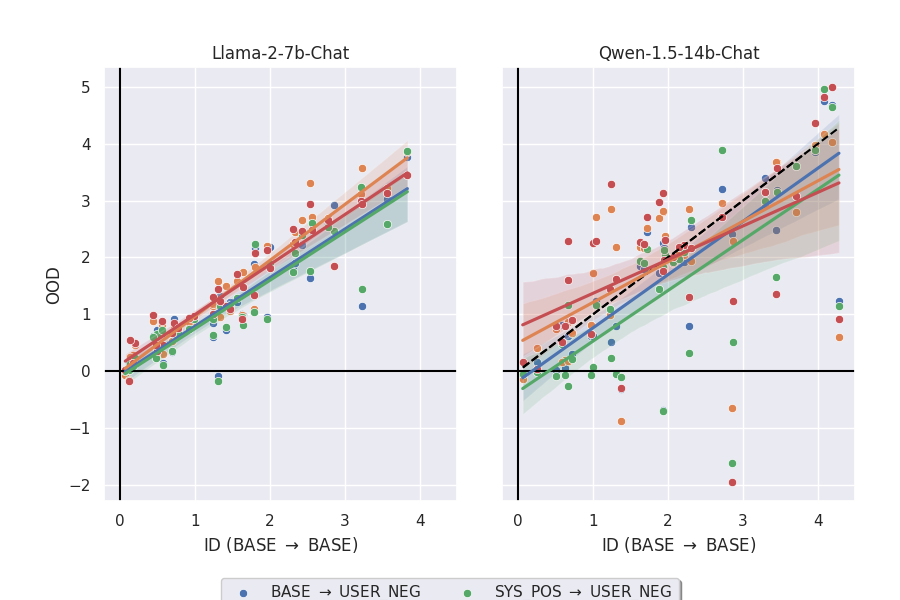
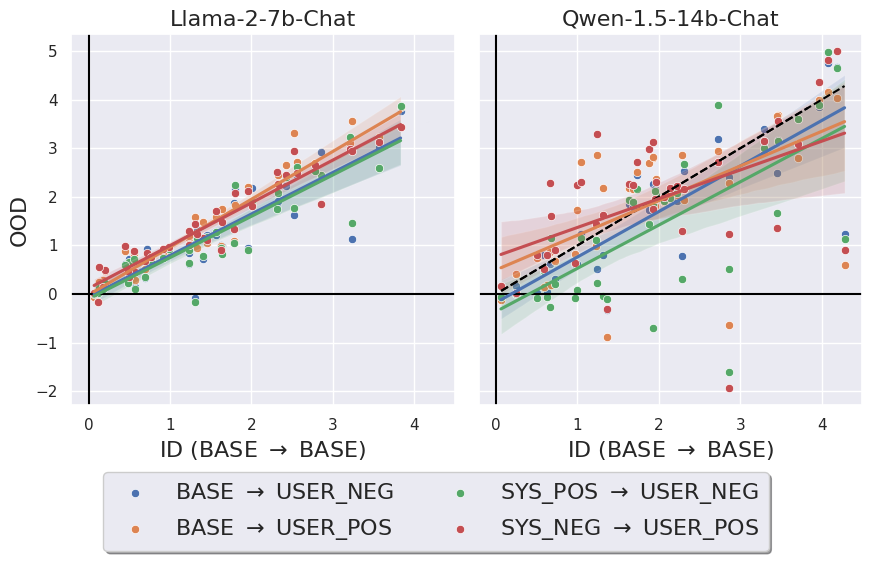
polish figures

diff --git a/repepo/paper/make_figures_steering_ood.py b/repepo/paper/make_figures_steering_ood.py
@@ -1,6 +1,7 @@
 # flake8: noqa
 # %%
 # Setup
+from tkinter import font
 import pandas as pd
 import seaborn as sns
 import matplotlib.pyplot as plt
@@ -128,7 +129,7 @@ def make_id_vs_ood_steerability_plot_for_df(df, ax):
     make_plot_for_dist_shift(df, ax, 'SYS_NEG -> USER_POS')
 
 # %%
-# Load data for both models
+# Plot ID vs OOD steerability for Qwen and Llama
 
 llama_df = pd.read_parquet('llama7b_steerability.parquet.gzip').drop_duplicates()
 llama_steerability_df = compute_steerability_df(llama_df, 'llama7b')
@@ -136,33 +137,37 @@ llama_steerability_df = compute_steerability_df(llama_df, 'llama7b')
 qwen_df = pd.read_parquet('qwen_steerability.parquet.gzip').drop_duplicates()
 qwen_steerability_df = compute_steerability_df(qwen_df, 'qwen')
 
-
-# %%
-# Plot ID vs OOD steerability for Qwen and Llama
-plt.rcParams.update({'font.size': 30})
-fig, axs = plt.subplots(nrows = 1, ncols = 2, figsize=(9, 6), sharey = True, sharex = True)
+plt.rcParams.update({'font.size': 16})
+fig, axs = plt.subplots(nrows = 1, ncols = 2, figsize=(9, 5), sharey = True, sharex = True)
+# fig.suptitle("ID vs OOD Steerability", y = 0.93)
 
 # Llama plot
 ax = axs[0]
 
 make_id_vs_ood_steerability_plot_for_df(llama_steerability_df, ax)
-ax.set_xlabel(r'ID (BASE $\rightarrow$ BASE)')
-ax.set_ylabel('OOD')
-ax.set_title(f'Llama-2-7b-Chat')
+ax.set_xlabel(r'ID (BASE $\rightarrow$ BASE)', fontsize=16)
+ax.set_ylabel('OOD', fontsize=16)
+ax.set_title(f'Llama-2-7b-Chat', fontsize=16)
 
 # Qwen plot
 ax = axs[1]
 
 make_id_vs_ood_steerability_plot_for_df(qwen_steerability_df, ax)
-ax.set_xlabel(r'ID (BASE $\rightarrow$ BASE)')
-ax.set_ylabel('OOD')
-ax.set_title(f'Qwen-1.5-14b-Chat')
+ax.set_xlabel(r'ID (BASE $\rightarrow$ BASE)', fontsize=16)
+ax.set_ylabel('OOD', fontsize=16)
+ax.set_title(f'Qwen-1.5-14b-Chat', fontsize=16)
 
 # Global legend
 handles, labels = ax.get_legend_handles_labels()
 # Fig legend overhead, but without covering the titles!
 # Fancy box
-fig.legend(handles, labels, loc='upper center', bbox_to_anchor=(0.5, 0.05), ncol=2, fancybox=True, shadow=True)
+fig.legend(
+    handles, labels, 
+    loc='upper center', 
+    bbox_to_anchor=(0.5, 0.05), 
+    ncol=2, fancybox=True, 
+    shadow=True, prop={'size': 16}
+)
 
 # Remove the legends from the individual plots
 axs[0].get_legend().remove()
@@ -175,8 +180,8 @@ fig.savefig(f'figures/qwen_and_llama2_steerability_id_vs_ood.png', bbox_inches='
 # %%
 # Correlate ID and OOD steerability between models
 combined_df = llama_steerability_df.merge(qwen_steerability_df, on='dataset_name', suffixes=('_llama7b', '_qwen'))
-plt.rcParams.update({'font.size': 30})
-fig, axs = plt.subplots(nrows = 1, ncols = 2, figsize=(9, 6), sharey = True, sharex = True)
+plt.rcParams.update({'font.size': 20})
+fig, axs = plt.subplots(nrows = 1, ncols = 2, figsize=(9, 4), sharey = True, sharex = True)
 
 # ID steerability
 ax = axs[0] 
@@ -188,9 +193,9 @@ min = x.min() if x.min() < y.min() else y.min()
 max = x.max() if x.max() > y.max() else y.max()
 ax.plot([min, max], [min, max], color='black', linestyle='--')
 
-ax.set_xlabel('Llama-2-7b-Chat')
-ax.set_ylabel('Qwen-1.5-14b-Chat')
-ax.set_title('ID')
+ax.set_xlabel('Llama-2-7b-Chat', fontsize=16)
+ax.set_ylabel('Qwen-1.5-14b-Chat',  fontsize=16)
+ax.set_title('ID',  fontsize=16)
 
 # OOD steerability
 ax = axs[1] 
@@ -203,15 +208,16 @@ ax.plot([min, max], [min, max], color='black', linestyle='--')
 
 
 sns.regplot(data=combined_df, x='SYS_POS -> USER_NEG_llama7b', y='SYS_POS -> USER_NEG_qwen', ax = ax)
-ax.set_xlabel('Llama-2-7b-Chat')
-ax.set_ylabel('Qwen-1.5-14b-Chat')
-ax.set_title('OOD')
+ax.set_xlabel('Llama-2-7b-Chat',  fontsize=16)
+ax.set_ylabel('Qwen-1.5-14b-Chat',  fontsize=16)
+ax.set_title('OOD',  fontsize=16)
 
 # Global legend
-handles, labels = ax.get_legend_handles_labels()
+# handles, labels = ax.get_legend_handles_labels()
 # Fig legend overhead, but without covering the titles!
 # Fancy box
-fig.legend(handles, labels, loc='upper center', bbox_to_anchor=(0.5, 0.05), ncol=2, fancybox=True, shadow=True)
+# fig.legend(handles, labels, loc='upper center', bbox_to_anchor=(0.5, 0.05), ncol=2, fancybox=True, shadow=True)
+# fig.suptitle("Correlation in Mean Steerability")
 
 # Remove the legends from the individual plots
 # axs[0].get_legend().remove()
@@ -220,6 +226,138 @@ fig.legend(handles, labels, loc='upper center', bbox_to_anchor=(0.5, 0.05), ncol
 fig.tight_layout()
 fig.savefig(f'figures/correlation_steerability_between_models.png', bbox_inches='tight')
 
+
+# %%
+# Correlate ID and OOD steerability variance between models
+
+def compute_steerability_variance_df(df, model_name: str):
+    """ Get a dataframe with various ID / OOD settings. """
+    # Calculate overall steerability by dataset. 
+    # Calculate steerability within each flavour
+    mean_slope = df.groupby(['dataset_name', 'steering_label', 'dataset_label'])['slope'].var()
+    df = df.merge(mean_slope, on=['dataset_name', 'steering_label', 'dataset_label'], suffixes=('', '_mean'))
+
+    # BASE -> BASE
+    steerability_id_df = df[
+        (df.steering_label == 'baseline')
+        & (df.dataset_label == 'baseline')
+        & (df.multiplier == 0)
+    ][['dataset_name', 'slope_mean']].drop_duplicates()
+    # Rename 'slope_mean' to 'steerability'
+    steerability_id_df = steerability_id_df.rename(columns={'slope_mean': 'steerability'})
+
+    # SYS_POS -> SYS_NEG
+    steerability_ood_df = df[
+        (df.steering_label == 'SYS_positive')
+        & (df.dataset_label == 'SYS_negative')
+        & (df.multiplier == 0)
+    ][['dataset_name', 'slope_mean']].drop_duplicates()
+    # Rename 'slope_mean' to 'steerability'
+    steerability_ood_df = steerability_ood_df.rename(columns={'slope_mean': 'steerability'})
+
+    # BASE -> USER_NEG
+    steerability_base_to_user_neg_df = df[
+        (df.steering_label == 'baseline')
+        & (df.dataset_label == 'PT_negative')
+        & (df.multiplier == 0)
+    ][['dataset_name', 'slope_mean']].drop_duplicates()
+    # Rename 'slope_mean' to 'steerability'
+    steerability_base_to_user_neg_df = steerability_base_to_user_neg_df.rename(columns={'slope_mean': 'steerability_base_to_user_neg'})
+
+    # BASE -> USER_POS
+    steerability_base_to_user_pos_df = df[
+        (df.steering_label == 'baseline')
+        & (df.dataset_label == 'PT_positive')
+        & (df.multiplier == 0)
+    ][['dataset_name', 'slope_mean']].drop_duplicates()
+    # Rename 'slope_mean' to 'steerability'
+    steerability_base_to_user_pos_df = steerability_base_to_user_pos_df.rename(columns={'slope_mean': 'steerability_base_to_user_pos'})
+
+    # SYS_POS -> USER_NEG
+    steerability_ood_to_user_neg_df = df[
+        (df.steering_label == 'SYS_positive')
+        & (df.dataset_label == 'PT_negative')
+        & (df.multiplier == 0)
+    ][['dataset_name', 'slope_mean']].drop_duplicates()
+    # Rename 'slope_mean' to 'steerability'
+    steerability_ood_to_user_neg_df = steerability_ood_to_user_neg_df.rename(columns={'slope_mean': 'steerability_ood_to_user_neg'})
+
+    # SYS_NEG -> USER_POS
+    steerability_ood_to_user_pos_df = df[
+        (df.steering_label == 'SYS_negative')
+        & (df.dataset_label == 'PT_positive')
+        & (df.multiplier == 0)
+    ][['dataset_name', 'slope_mean']].drop_duplicates()
+    # Rename 'slope_mean' to 'steerability'
+    steerability_ood_to_user_pos_df = steerability_ood_to_user_pos_df.rename(columns={'slope_mean': 'steerability_ood_to_user_pos'})
+
+    # Merge the dataframes
+    steerability_df = steerability_id_df.merge(steerability_ood_df, on='dataset_name', suffixes=('_id', '_ood'))
+    steerability_df = steerability_df.merge(steerability_base_to_user_neg_df, on='dataset_name')
+    steerability_df = steerability_df.merge(steerability_base_to_user_pos_df, on='dataset_name')
+    steerability_df = steerability_df.merge(steerability_ood_to_user_neg_df, on='dataset_name')
+    steerability_df = steerability_df.merge(steerability_ood_to_user_pos_df, on='dataset_name')
+
+    print(steerability_df.columns)
+
+    # Save the dataframe for plotting between models
+    steerability_df.to_parquet(f'{model_name}_steerability_summary.parquet.gzip', compression='gzip')
+    steerability_df = steerability_df.rename(columns={
+        'steerability_id': 'BASE -> BASE',
+        'steerability_ood': 'SYS_POS -> SYS_NEG',
+        'steerability_base_to_user_neg': 'BASE -> USER_NEG',
+        'steerability_base_to_user_pos': 'BASE -> USER_POS',
+        'steerability_ood_to_user_neg': 'SYS_POS -> USER_NEG',
+        'steerability_ood_to_user_pos': 'SYS_NEG -> USER_POS',
+    })
+    
+    return steerability_df
+
+# Compute the data
+llama_df = pd.read_parquet('llama7b_steerability.parquet.gzip').drop_duplicates()
+llama_steerability_df = compute_steerability_variance_df(llama_df, 'llama7b')
+
+qwen_df = pd.read_parquet('qwen_steerability.parquet.gzip').drop_duplicates()
+qwen_steerability_df = compute_steerability_variance_df(qwen_df, 'qwen')
+
+combined_df = llama_steerability_df.merge(qwen_steerability_df, on='dataset_name', suffixes=('_llama7b', '_qwen'))
+
+# %%
+plt.rcParams.update({'font.size': 16})
+fig, axs = plt.subplots(nrows = 1, ncols = 2, figsize=(9, 4), sharey = True, sharex = True)
+
+# ID steerability
+ax = axs[0] 
+sns.regplot(data=combined_df, x='BASE -> BASE_llama7b', y='BASE -> BASE_qwen', ax = ax)
+# Draw the x = y dotted line
+x = combined_df['BASE -> BASE_llama7b']
+y = combined_df['BASE -> BASE_qwen']
+min = x.min() if x.min() < y.min() else y.min()
+max = x.max() if x.max() > y.max() else y.max()
+ax.plot([min, max], [min, max], color='black', linestyle='--')
+
+ax.set_xlabel('Llama-2-7b-Chat', fontsize=16)
+ax.set_ylabel('Qwen-1.5-14b-Chat', fontsize=16)
+ax.set_title('ID', fontsize=16)
+
+# OOD steerability
+ax = axs[1] 
+# Draw the x = y dotted line
+x = combined_df['BASE -> BASE_llama7b']
+y = combined_df['BASE -> BASE_qwen']
+min = x.min() if x.min() < y.min() else y.min()
+max = x.max() if x.max() > y.max() else y.max()
+ax.plot([min, max], [min, max], color='black', linestyle='--')
+
+
+sns.regplot(data=combined_df, x='SYS_POS -> USER_NEG_llama7b', y='SYS_POS -> USER_NEG_qwen', ax = ax)
+ax.set_xlabel('Llama-2-7b-Chat', fontsize=16)
+ax.set_ylabel('Qwen-1.5-14b-Chat', fontsize=16)
+ax.set_title('OOD', fontsize=16)
+
+fig.tight_layout()
+# fig.suptitle("Correlation in Steerability Variance", y=1.03)
+fig.savefig(f'figures/correlation_steerability_variance_between_models.png', bbox_inches='tight')
 
 
 # %%
